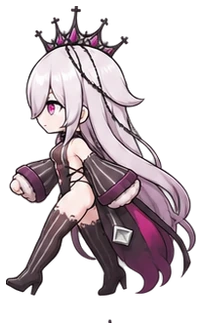
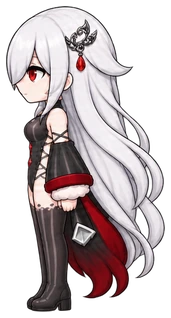
블러드 001 여성 외형을 새 그림으로 바꾸고 걷기 4장을 걸음에 맞춰 보여 준다
Claude-Session: https://claude.ai/code/session_01Q8g6paXLaAqmMfWvJR7WQb

diff --git a/src/game/rpgArt.js b/src/game/rpgArt.js
@@ -2323,8 +2323,11 @@ function drawHero(ctx, g, h, time) {
   const hide = h.hideGear || 0;                     // 장비 외형 숨기기(rpg.js HIDE_GEAR) — 겉모습만, 능력치는 그대로
   const held = hide & HIDE_GEAR.weapon ? bareHands(h, view, advIm) : advIm ? advHeld(h, view) : heldWeapon(h, view);
   let im = held ? held.body : advIm || heroImg(h, view) || heroImg(h, "front");
-  // 히든 직업 BLOOD-001 — 가만히 서 있을 때는 서 있는 그림(idle-<보기>.webp), 걸을 때는 걷는 그림. 아직 없는 성별 · 못 불러올 때는 걷는 그림 그대로
-  if (!down && advIm && !(h.anim && h.anim.walk >= 0.05) && /\/blood-f\//.test(advIm.src)) im = artImg(advArtPath(h, `idle-${view}`)) || im;
+  // 히든 직업 BLOOD-001 여성 — 걸을 때는 걷는 그림 4장(walk-<보기>-<0~3>.webp, tools/cut-blood-f.py)을 걸음에 맞춰 바꾼다. 서 있을 때는 기본 그림. 아래로 갈 때(turn)는 앞 그림. 못 불러오면 기본 그림 그대로
+  if (!down && advIm && h.anim && h.anim.walk >= 0.05 && /\/blood-f\//.test(advIm.src)) {
+    const k = Math.floor((((h.anim.ph / (Math.PI / 2)) % 4) + 4) % 4);
+    im = artImg(advArtPath(h, `walk-${view === "turn" ? "front" : view}-${k}`)) || im;
+  }
   const mo = down ? null : heroMotion(g, h, time);
   const al = down ? 0 : abyssLookOf(h);              // 낀 심연 외형(abyssData.js ABYSS_LOOKS) — 겉모습만, 능력치 없음
   if (held && al & LOOK_BIT.weapon) { held.abyss = 1; if (held.off) held.off.abyss = 1; }

diff --git a/tools/cut-blood-f.py b/tools/cut-blood-f.py
@@ -1,0 +1,57 @@
+"""히든 직업 BLOOD-001 여성 외형(붉은 눈 · 흰 머리 · 붉은 끝) — 사용자가 준 두 시트를 떼어 낸다.
+   서 있는 시트 blood-f-standing-sheet.png: 한 줄 4칸 = 앞 · 뒤 · 옆(왼쪽을 본다) · 옆(오른쪽을 본다). 게임은 옆 그림을 뒤집어 쓰므로 셋째 칸만 쓴다.
+   걷는 시트 blood-f-walk-sheet.png: 4칸 × 4줄. 줄 = 앞 · 뒤 · 왼쪽 · 오른쪽, 칸 = 걷기 4장. 왼쪽 줄만 쓴다.
+   결과(public/assets/characters/rpg/blood-f/): front · back · side · turn(-bare) = 서 있는 그림(turn 은 앞 그림 — 아래로 갈 때 늘 앞모습),
+   walk-<front|back|side>-<0..3>.webp = 걷는 그림. 크기는 앞 그림 키를 암살자 앞 그림에 맞춘 배율(CROWN 곱) — 걷는 시트는 해상도가 달라 앞 첫 칸 키를 서 있는 앞 키에 맞춘다.
+   남성(blood-m)은 cut-blood-char.py. 실행: python3 tools/cut-blood-f.py"""
+import os
+import numpy as np
+from PIL import Image
+from scipy import ndimage
+
+ROOT = os.path.dirname(os.path.dirname(os.path.abspath(__file__)))
+SRC = os.path.join(ROOT, "design/blood-job/char")
+OUT = os.path.join(ROOT, "public/assets/characters/rpg")
+PAD, CROWN, FAINT = 6, 1.14, 24
+
+def body(a):
+    """붉은 부스러기를 버리고 가장 큰 덩어리(머리카락 · 몸)만 남긴다 — 가까운 조각은 부풀려 같은 덩어리로 본다"""
+    a = a.copy()
+    a[..., 3] = np.where(a[..., 3] < FAINT, 0, a[..., 3])
+    m = ndimage.binary_dilation(a[..., 3] > 0, iterations=5)
+    lab, n = ndimage.label(m)
+    if n > 1:
+        sizes = ndimage.sum(m, lab, range(1, n + 1))
+        a[..., 3] = np.where(lab == (1 + int(np.argmax(sizes))), a[..., 3], 0)
+    ys, xs = np.where(a[..., 3] > 0)
+    return Image.fromarray(a[ys.min():ys.max() + 1, xs.min():xs.max() + 1], "RGBA")
+
+def place(cr, s):
+    w, h = max(1, round(cr.size[0] * s)), max(1, round(cr.size[1] * s))
+    o = Image.new("RGBA", (w + PAD * 2, h + PAD * 2), (0, 0, 0, 0))
+    o.alpha_composite(cr.resize((w, h), Image.LANCZOS), (PAD, PAD))
+    return o
+
+def grid(im, r, c, rows, cols):
+    H, W = im.shape[:2]
+    return im[r * H // rows:(r + 1) * H // rows, c * W // cols:(c + 1) * W // cols]
+
+st = np.asarray(Image.open(os.path.join(SRC, "blood-f-standing-sheet.png")).convert("RGBA"))
+wk = np.asarray(Image.open(os.path.join(SRC, "blood-f-walk-sheet.png")).convert("RGBA"))
+stand = {"front": body(grid(st, 0, 0, 1, 4)), "back": body(grid(st, 0, 1, 1, 4)), "side": body(grid(st, 0, 2, 1, 4))}
+stand["turn"] = stand["front"]
+ref = Image.open(os.path.join(OUT, "assassin-f", "front.webp")).size[1] - PAD * 2
+s = ref / stand["front"].size[1] * CROWN
+d = os.path.join(OUT, "blood-f")
+for v, cr in stand.items():
+    o = place(cr, s)
+    for name in (f"{v}.webp", f"{v}-bare.webp"):
+        o.save(os.path.join(d, name), quality=92, method=6)
+    print(v, o.size)
+walk = {v: [body(grid(wk, r, c, 4, 4)) for c in range(4)] for r, v in ((0, "front"), (1, "back"), (2, "side"))}
+sw = stand["front"].size[1] * s / walk["front"][0].size[1]
+for v, frames in walk.items():
+    for i, cr in enumerate(frames):
+        o = place(cr, sw)
+        o.save(os.path.join(d, f"walk-{v}-{i}.webp"), quality=92, method=6)
+        print("walk", v, i, o.size)

diff --git a/tools/cut-blood-char.py b/tools/cut-blood-char.py
@@ -40,7 +40,7 @@ def place(crop, s):
     return out
 
 if __name__ == "__main__":
-    for g in ["m", "f"]:
+    for g in ["m"]:   # 여성은 tools/cut-blood-f.py(11월 15일 새 그림)
         im = np.asarray(Image.open(os.path.join(SRC, f"blood-{g}-sheet.webp")).convert("RGBA"))
         crops = {v: cell(im, r, 0) for r, v in enumerate(ROWS)}
         # 게임의 turn 은 "아래로 가며 왼쪽을 본다" — 거의 앞모습이어야 한다. 시트 넷째 줄은 옆으로 걷는 모습이라
